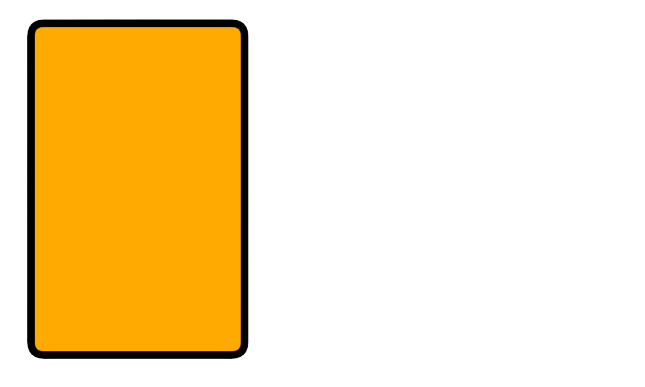
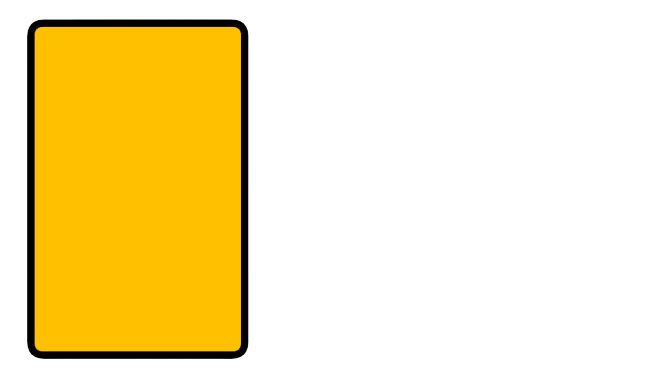
Made graphics for program cards in photoshop.

Changed region(s): [[0.062, 0.062, 0.3721, 0.093], [0.3411, 0.8992, 0.3721, 0.9302]]

diff --git a/src/main/java/biblioteket/roborally/game/MainMenuScreen.java b/src/main/java/biblioteket/roborally/game/MainMenuScreen.java
@@ -6,6 +6,8 @@ import com.badlogic.gdx.graphics.GL20;
 import com.badlogic.gdx.graphics.OrthographicCamera;
 import com.badlogic.gdx.graphics.Texture;
 import com.badlogic.gdx.graphics.g2d.SpriteBatch;
+import com.badlogic.gdx.utils.viewport.FitViewport;
+import com.badlogic.gdx.utils.viewport.Viewport;
 
 /**
  * The landing screen once the user starts the game, this is where the player(s)
@@ -21,17 +23,18 @@ public class MainMenuScreen implements Screen {
     private Texture quitPre;
     private Texture quitPost;
     OrthographicCamera camera;
-    private SpriteBatch batch;
+
 
     private int buttonHeight = 250;
     private int buttonWidth = 180;
-    private int buttonY = 40;
 
 
     public MainMenuScreen(final RoboRally game) {
         this.game = game;
         this.camera = new OrthographicCamera();
         camera.setToOrtho(false, 640, 640);
+
+
         background = new Texture("assets/background2.jpg");
         logo = new Texture("assets/logo.png");
         playPre = new Texture("assets/buttons/playPre.png");
